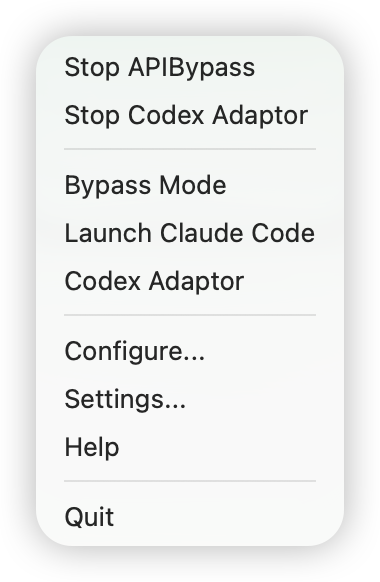
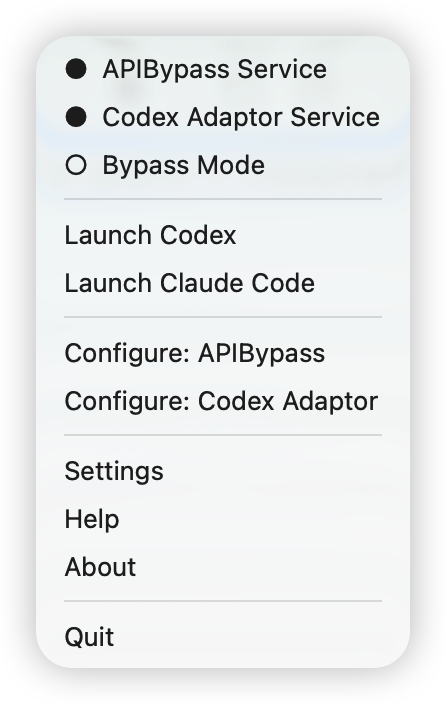
docs: update README with new screenshots and Launch Codex feature
- Add menu bar status indicator explanation (●/○)
- Add Launch Codex quickstart section
- Update screenshot filenames to match new names
- Add About window screenshot
- Update settings section with Trace Log option

diff --git a/README.md b/README.md
@@ -26,8 +26,12 @@ APIBypass is a macOS menu bar app that sits between your AI tools and upstream A
 ---
 
 <p align="center">
-  <a href="menu.png"><img src="menu.png" alt="APIBypass menu bar menu" width="380"></a>
+  <a href="menu.png"><img src="menu.png" alt="APIBypass menu bar with status indicators" width="400"></a>
 </p>
+
+The menu shows real-time status for each service:
+- ● (solid) = running
+- ○ (hollow) = stopped
 
 ### Why APIBypass?
 
@@ -105,10 +109,10 @@ Click the APIBypass icon in the menu bar — the server auto-starts on `127.0.0.
 
 ### 2. Add a Provider
 
-Menu bar → "Configure..." → create a provider:
+Menu bar → "Configure APIBypass" → create a provider:
 
 <p align="center">
-  <a href="screenshot_configure.png"><img src="screenshot_configure.png" alt="Provider and model mapping configuration" width="720"></a>
+  <a href="screenshot_apibypass_configure.png"><img src="screenshot_apibypass_configure.png" alt="Provider and model mapping configuration" width="720"></a>
 </p>
 
 | Field | Description | Example |
@@ -136,7 +140,7 @@ Set your AI client's base URL to `http://127.0.0.1:8390/v1`. The API Key field c
 Menu bar → "Launch Claude Code":
 
 <p align="center">
-  <a href="screenshot_launch.png"><img src="screenshot_launch.png" alt="Launch Claude Code configuration" width="720"></a>
+  <a href="screenshot_launch_claude_code.png"><img src="screenshot_launch_claude_code.png" alt="Launch Claude Code configuration" width="720"></a>
 </p>
 
 1. Pick a provider (base URL and token auto-configured)
@@ -146,6 +150,18 @@ Menu bar → "Launch Claude Code":
 5. Click "Launch"
 
 Claude Code opens with all environment variables set, routing each model role through your chosen provider.
+
+### 6. Launch Codex (Optional)
+
+Menu bar → "Launch Codex":
+
+<p align="center">
+  <a href="screenshot_launch_codex.png"><img src="screenshot_launch_codex.png" alt="Launch Codex configuration" width="720"></a>
+</p>
+
+1. Codex Adaptor service starts automatically if not running
+2. Codex app launches with the configured debug port
+3. Point Codex to `http://127.0.0.1:15721/v1`
 
 ---
 
@@ -176,7 +192,7 @@ Claude Code opens with all environment variables set, routing each model role th
 OpenAI's [Codex](https://github.com/openai/codex) uses the **Responses API** — a new format that almost no proxy or third-party provider supports. APIBypass is the first macOS tool to bridge this gap: it translates Responses API ↔ Chat Completions in real time, and passes requests through APIBypass's model mapping and parameter injection pipeline. The result: **Codex works with any provider, any model** — DeepSeek, Qwen, GLM, MiniMax, not just OpenAI.
 
 <p align="center">
-  <a href="screenshot_codexadaptor.png"><img src="screenshot_codexadaptor.png" alt="Codex Adaptor configuration" width="720"></a>
+  <a href="screenshot_codexadaptor_configure.png"><img src="screenshot_codexadaptor_configure.png" alt="Codex Adaptor configuration" width="720"></a>
 </p>
 
 ```
@@ -271,12 +287,18 @@ Client (Claude Code / Cursor / Anything) │
 Menu bar → "Settings...":
 
 <p align="center">
-  <a href="screenshot_settings.png"><img src="screenshot_settings.png" alt="APIBypass settings window" width="720"></a>
+  <a href="screenshot_settings.png"><img src="screenshot_settings.png" alt="APIBypass settings window" width="500"></a>
 </p>
 
 - **Language**: 中文 / English, takes effect immediately
 - **Server Port**: Default 8390, restart to apply
-- **About**: Version, description, GitHub link, MIT license
+- **Trace Log**: Enable request/response logging for debugging
+
+Menu bar → "About":
+
+<p align="center">
+  <a href="screenshot_about.png"><img src="screenshot_about.png" alt="About APIBypass" width="320"></a>
+</p>
 
 ## Tech Stack
 
